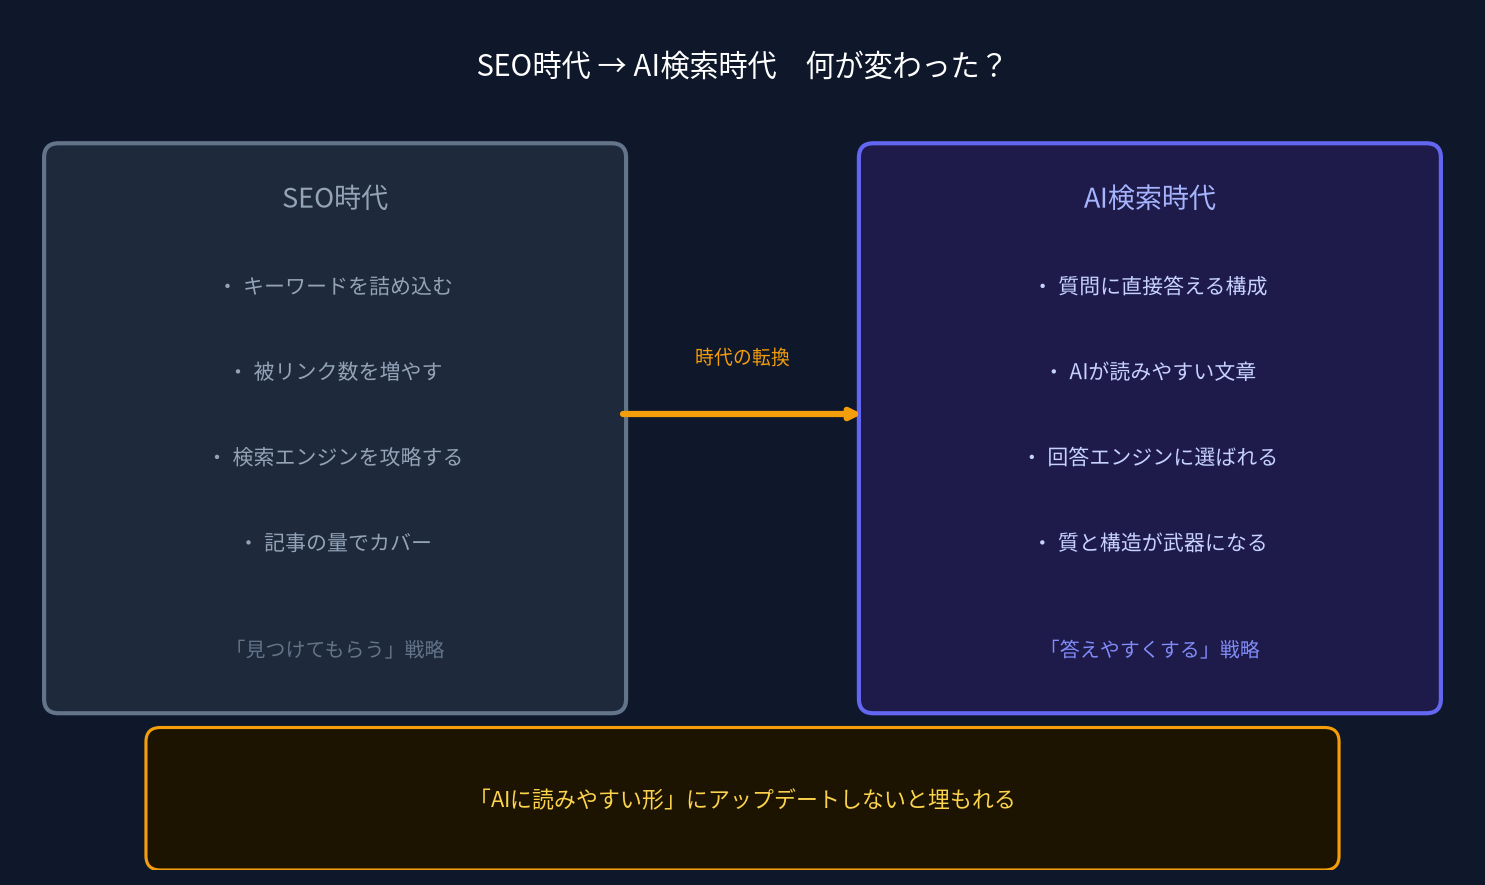
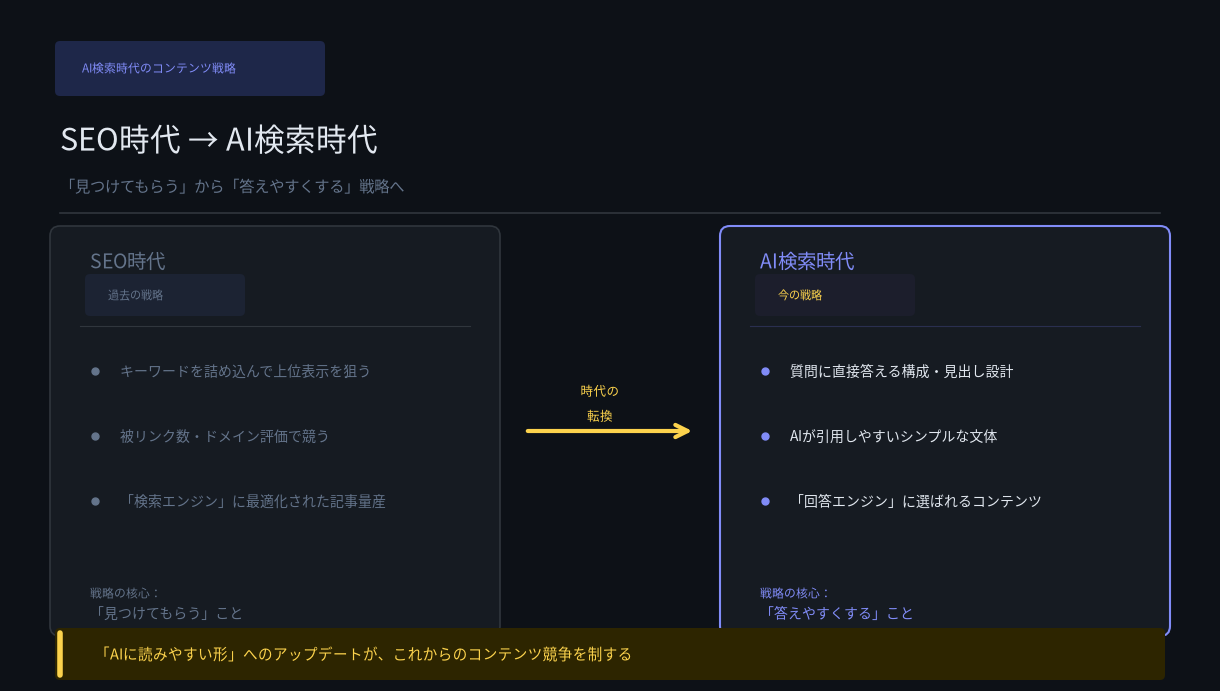
Redesign sample post image with improved visual design principles
Claude-Session: https://claude.ai/code/session_01XuC2qznjLELSFa6zv1RE5v

diff --git a/sample_image.py b/sample_image.py
@@ -5,75 +5,153 @@ from matplotlib import font_manager
 import warnings
 warnings.filterwarnings('ignore')
 
-# 日本語フォント設定
+# ── フォント ──
 font_path = '/usr/share/fonts/opentype/noto/NotoSansCJK-Regular.ttc'
-font_prop = font_manager.FontProperties(fname=font_path)
-plt.rcParams['font.family'] = font_prop.get_name()
+bold_path = '/usr/share/fonts/opentype/noto/NotoSansCJK-Regular.ttc'
 font_manager.fontManager.addfont(font_path)
+FP  = font_manager.FontProperties(fname=font_path)
 
-fig, ax = plt.subplots(figsize=(10, 6))
-fig.patch.set_facecolor('#0F172A')
-ax.set_facecolor('#0F172A')
-ax.set_xlim(0, 10)
-ax.set_ylim(0, 6)
+# ── 3色ルール ──
+C_BASE    = '#0D1117'   # ベース（背景）
+C_SURFACE = '#161B22'   # カード背景
+C_MAIN    = '#818CF8'   # メインカラー（AI検索側）
+C_ACCENT  = '#FCD34D'   # アクセント（強調・矢印）
+C_TEXT    = '#E2E8F0'   # 本文テキスト
+C_MUTED   = '#64748B'   # サブテキスト（SEO側）
+C_BORDER  = '#30363D'   # ボーダー
+
+# ── キャンバス ──
+fig, ax = plt.subplots(figsize=(12, 6.72))  # 1200×672px @100dpi
+fig.patch.set_facecolor(C_BASE)
+ax.set_facecolor(C_BASE)
+ax.set_xlim(0, 12)
+ax.set_ylim(0, 6.72)
 ax.axis('off')
 
-def txt(x, y, s, size=11, color='white', bold=False, italic=False, ha='center', va='center'):
-    weight = 'bold' if bold else 'normal'
-    style  = 'italic' if italic else 'normal'
-    ax.text(x, y, s, ha=ha, va=va, fontsize=size, fontweight=weight,
-            fontstyle=style, color=color,
-            fontproperties=font_manager.FontProperties(fname=font_path))
+def t(x, y, s, size=10, color=C_TEXT, bold=False, ha='left', va='center'):
+    w = 'bold' if bold else 'normal'
+    ax.text(x, y, s, ha=ha, va=va, fontsize=size, fontweight=w,
+            color=color, fontproperties=FP)
 
-# ── タイトル ──
-txt(5, 5.65, "SEO時代 → AI検索時代　何が変わった？",
-    size=14, bold=True, color='white')
+# ══════════════════════════════════════════════
+# ① ヘッダーエリア（H1 + サブタイトル）
+# ══════════════════════════════════════════════
+# カテゴリバッジ
+badge = FancyBboxPatch((0.5, 5.9), 2.6, 0.45,
+    boxstyle="round,pad=0.05", lw=0, facecolor='#1E2749')
+ax.add_patch(badge)
+t(0.72, 6.13, "AI検索時代のコンテンツ戦略", size=8.5, color=C_MAIN)
 
-# ── 左ボックス（SEO時代）──
-ax.add_patch(FancyBboxPatch((0.3, 1.2), 3.8, 3.8,
-    boxstyle="round,pad=0.1", lw=2,
-    edgecolor='#64748B', facecolor='#1E293B'))
+# H1 タイトル（最大フォント・白・太字）
+t(0.5, 5.42, "SEO時代 → AI検索時代", size=22, color=C_TEXT, bold=True)
 
-txt(2.2, 4.72, "SEO時代", size=13, bold=True, color='#94A3B8')
+# サブタイトル（ミュート、H1の半分以下のサイズ感）
+t(0.5, 4.95, "「見つけてもらう」から「答えやすくする」戦略へ",
+  size=11, color=C_MUTED)
 
-for y, t in [(4.1, "キーワードを詰め込む"),
-             (3.5, "被リンク数を増やす"),
-             (2.9, "検索エンジンを攻略する"),
-             (2.3, "記事の量でカバー")]:
-    txt(2.2, y, "・ " + t, size=10, color='#94A3B8')
+# 区切り線
+ax.plot([0.5, 11.5], [4.68, 4.68], color=C_BORDER, lw=1.2)
 
-txt(2.2, 1.55, "「見つけてもらう」戦略",
-    size=9.5, italic=True, color='#64748B')
+# ══════════════════════════════════════════════
+# ② 左カラム — SEO時代（ミュートカラー）
+# ══════════════════════════════════════════════
+L_X, L_W = 0.5, 4.3
+card_l = FancyBboxPatch((L_X, 0.55), L_W, 3.9,
+    boxstyle="round,pad=0.1", lw=1.2,
+    edgecolor=C_BORDER, facecolor=C_SURFACE)
+ax.add_patch(card_l)
 
-# ── 矢印 ──
-ax.annotate('', xy=(5.85, 3.2), xytext=(4.15, 3.2),
-    arrowprops=dict(arrowstyle='->', color='#F59E0B', lw=3))
-txt(5.0, 3.6, "時代の転換", size=9, bold=True, color='#F59E0B')
+# H2 見出し
+t(L_X + 0.3, 4.2, "SEO時代", size=14, color=C_MUTED, bold=True)
 
-# ── 右ボックス（AI検索時代）──
-ax.add_patch(FancyBboxPatch((5.9, 1.2), 3.8, 3.8,
-    boxstyle="round,pad=0.1", lw=2,
-    edgecolor='#6366F1', facecolor='#1E1B4B'))
+# 小バッジ
+b2 = FancyBboxPatch((L_X + 0.3, 3.7), 1.5, 0.32,
+    boxstyle="round,pad=0.05", lw=0, facecolor='#1C2333')
+ax.add_patch(b2)
+t(L_X + 0.48, 3.86, "過去の戦略", size=8, color=C_MUTED)
 
-txt(7.8, 4.72, "AI検索時代", size=13, bold=True, color='#A5B4FC')
+# 区切り（カード内）
+ax.plot([L_X+0.2, L_X+L_W-0.2], [3.55, 3.55], color=C_BORDER, lw=0.8)
 
-for y, t in [(4.1, "質問に直接答える構成"),
-             (3.5, "AIが読みやすい文章"),
-             (2.9, "回答エンジンに選ばれる"),
-             (2.3, "質と構造が武器になる")]:
-    txt(7.8, y, "・ " + t, size=10, color='#C7D2FE')
+# 箇条書き（左揃え・3点に絞る）
+items_left = [
+    "キーワードを詰め込んで上位表示を狙う",
+    "被リンク数・ドメイン評価で競う",
+    "「検索エンジン」に最適化された記事量産",
+]
+for i, item in enumerate(items_left):
+    y = 3.1 - i * 0.65
+    # ドット
+    ax.plot(L_X + 0.35, y, 'o', color=C_MUTED, markersize=5)
+    t(L_X + 0.6, y, item, size=10, color=C_MUTED)
 
-txt(7.8, 1.55, "「答えやすくする」戦略",
-    size=9.5, italic=True, bold=True, color='#818CF8')
+# フッターラベル
+t(L_X + 0.3, 0.88, "戦略の核心：", size=8.5, color=C_MUTED)
+t(L_X + 0.3, 0.68, "「見つけてもらう」こと", size=10, color=C_MUTED, bold=True)
 
-# ── 下部メッセージ ──
-ax.add_patch(FancyBboxPatch((1.0, 0.1), 8.0, 0.8,
+# ══════════════════════════════════════════════
+# ③ 中央 — 遷移矢印
+# ══════════════════════════════════════════════
+ax.annotate('', xy=(6.85, 2.5), xytext=(5.15, 2.5),
+    arrowprops=dict(arrowstyle='->', color=C_ACCENT, lw=3,
+                    mutation_scale=22))
+t(5.9, 2.9, "時代の", size=9, color=C_ACCENT, ha='center')
+t(5.9, 2.65, "転換", size=9, color=C_ACCENT, bold=True, ha='center')
+
+# ══════════════════════════════════════════════
+# ④ 右カラム — AI検索時代（メインカラー）
+# ══════════════════════════════════════════════
+R_X, R_W = 7.2, 4.3
+card_r = FancyBboxPatch((R_X, 0.55), R_W, 3.9,
     boxstyle="round,pad=0.1", lw=1.5,
-    edgecolor='#F59E0B', facecolor='#1C1400'))
-txt(5.0, 0.5, "「AIに読みやすい形」にアップデートしないと埋もれる",
-    size=10.5, bold=True, color='#FCD34D')
+    edgecolor=C_MAIN, facecolor=C_SURFACE)
+ax.add_patch(card_r)
 
-plt.tight_layout()
+# H2 見出し（メインカラー）
+t(R_X + 0.3, 4.2, "AI検索時代", size=14, color=C_MAIN, bold=True)
+
+# 小バッジ（アクセント）
+b3 = FancyBboxPatch((R_X + 0.3, 3.7), 1.5, 0.32,
+    boxstyle="round,pad=0.05", lw=0, facecolor='#1C1E2C')
+ax.add_patch(b3)
+t(R_X + 0.48, 3.86, "今の戦略", size=8, color=C_ACCENT)
+
+# 区切り
+ax.plot([R_X+0.2, R_X+R_W-0.2], [3.55, 3.55], color='#2A2F50', lw=0.8)
+
+# 箇条書き
+items_right = [
+    "質問に直接答える構成・見出し設計",
+    "AIが引用しやすいシンプルな文体",
+    "「回答エンジン」に選ばれるコンテンツ",
+]
+for i, item in enumerate(items_right):
+    y = 3.1 - i * 0.65
+    ax.plot(R_X + 0.35, y, 'o', color=C_MAIN, markersize=5)
+    t(R_X + 0.6, y, item, size=10, color=C_TEXT)
+
+# フッターラベル
+t(R_X + 0.3, 0.88, "戦略の核心：", size=8.5, color=C_MAIN)
+t(R_X + 0.3, 0.68, "「答えやすくする」こと", size=10, color=C_MAIN, bold=True)
+
+# ══════════════════════════════════════════════
+# ⑤ アクセントバー — 1メッセージの強調
+# ══════════════════════════════════════════════
+accent_bar = FancyBboxPatch((0.5, 0.06), 11.0, 0.42,
+    boxstyle="round,pad=0.05", lw=0, facecolor='#2D2500')
+ax.add_patch(accent_bar)
+
+# 左アクセントライン
+ax.plot([0.5, 0.5], [0.06, 0.48], color=C_ACCENT, lw=4, solid_capstyle='round')
+
+t(0.85, 0.27,
+  "「AIに読みやすい形」へのアップデートが、これからのコンテンツ競争を制する",
+  size=10.5, color=C_ACCENT, bold=True)
+
+# ══════════════════════════════════════════════
+# 出力
+# ══════════════════════════════════════════════
+plt.tight_layout(pad=0)
 plt.savefig('/home/user/cheker/sample_post_image.png',
-            dpi=150, bbox_inches='tight', facecolor='#0F172A')
+            dpi=100, bbox_inches='tight', facecolor=C_BASE)
 print("saved")
